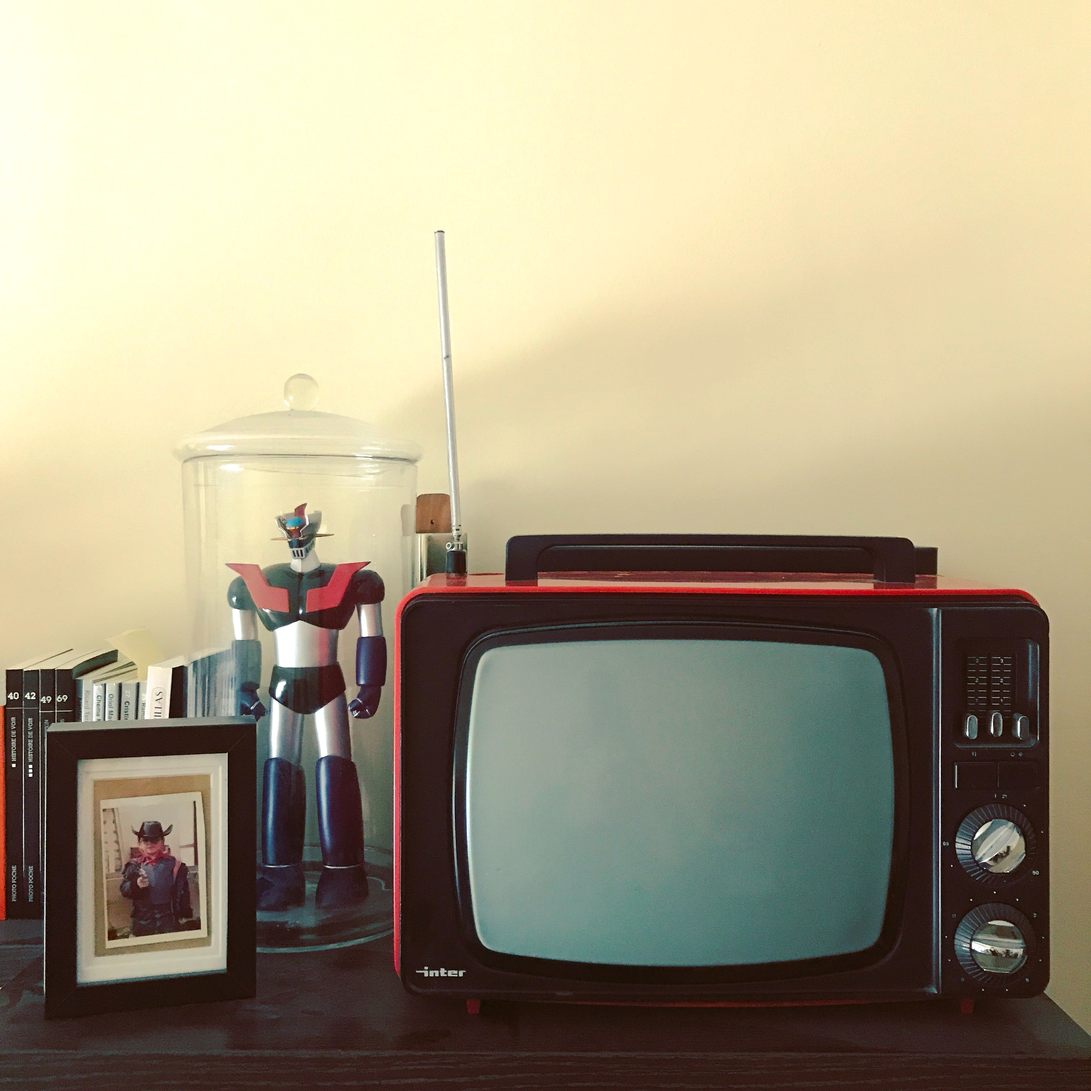
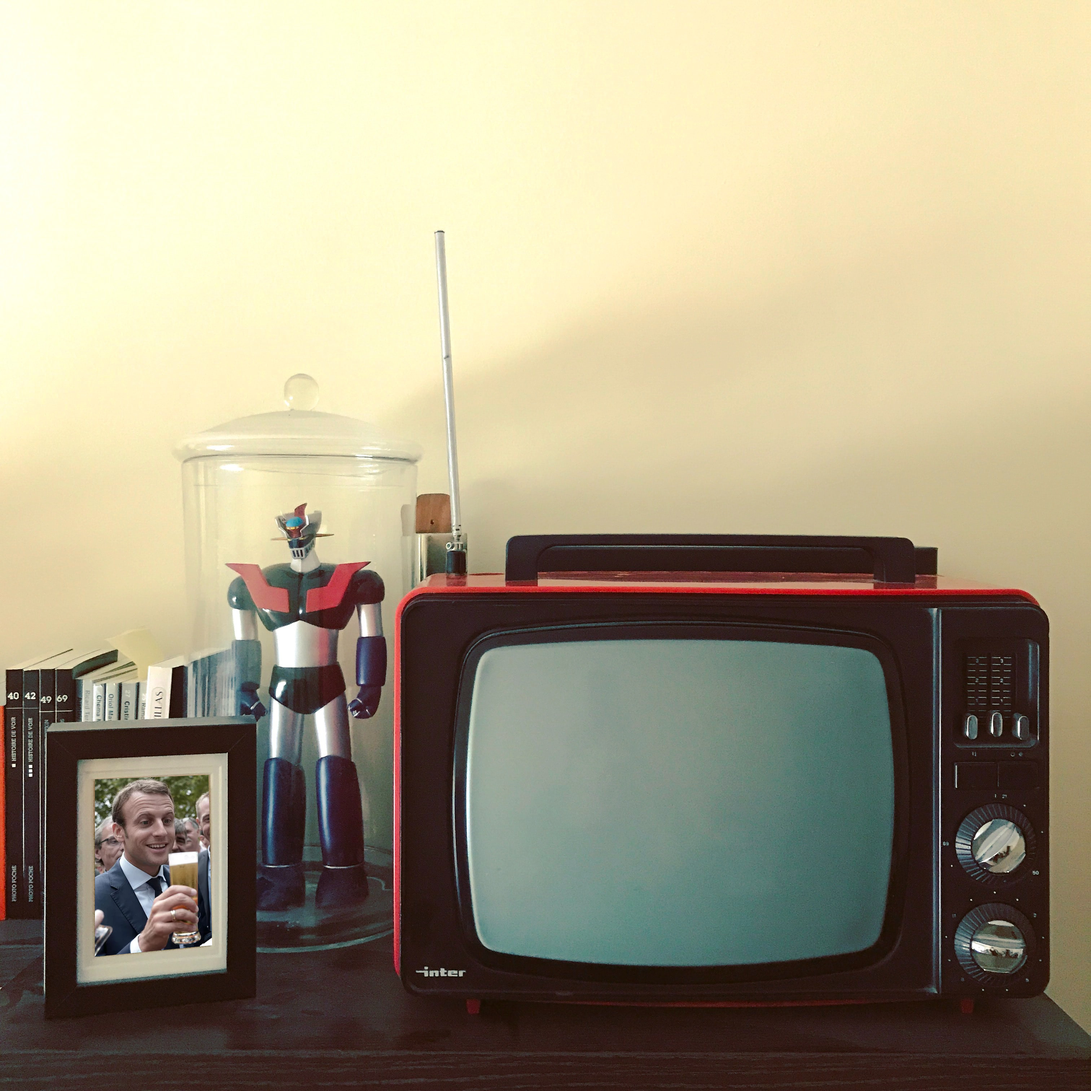
feat: add macron on image and change extracts

Changed region(s): [[0.0622, 0.6839, 0.2176, 0.9015]]

diff --git a/index.html b/index.html
@@ -281,7 +281,7 @@ Vive la France.`;
 
 
         const extracts = [
-            { name: 'mes chers compatriotes', extract: /mes chers compatriotes/gi, sips: 1, assDrys: 1 },
+            { name: 'mes chers compatriotes', extract: /mes chers compatriotes/gi, sips: 1, assDrys: 0 },
             { name: 'combat', extract: /combat/gi, sips: 2, assDrys: 0 },
             { name: 'sacrifice', extract: /sacrifice/gi, sips: 3, assDrys: 0 },
             { name: 'notre personnel soignant', extract: /notre personnel soignant/gi, sips: 5, assDrys: 0 },
